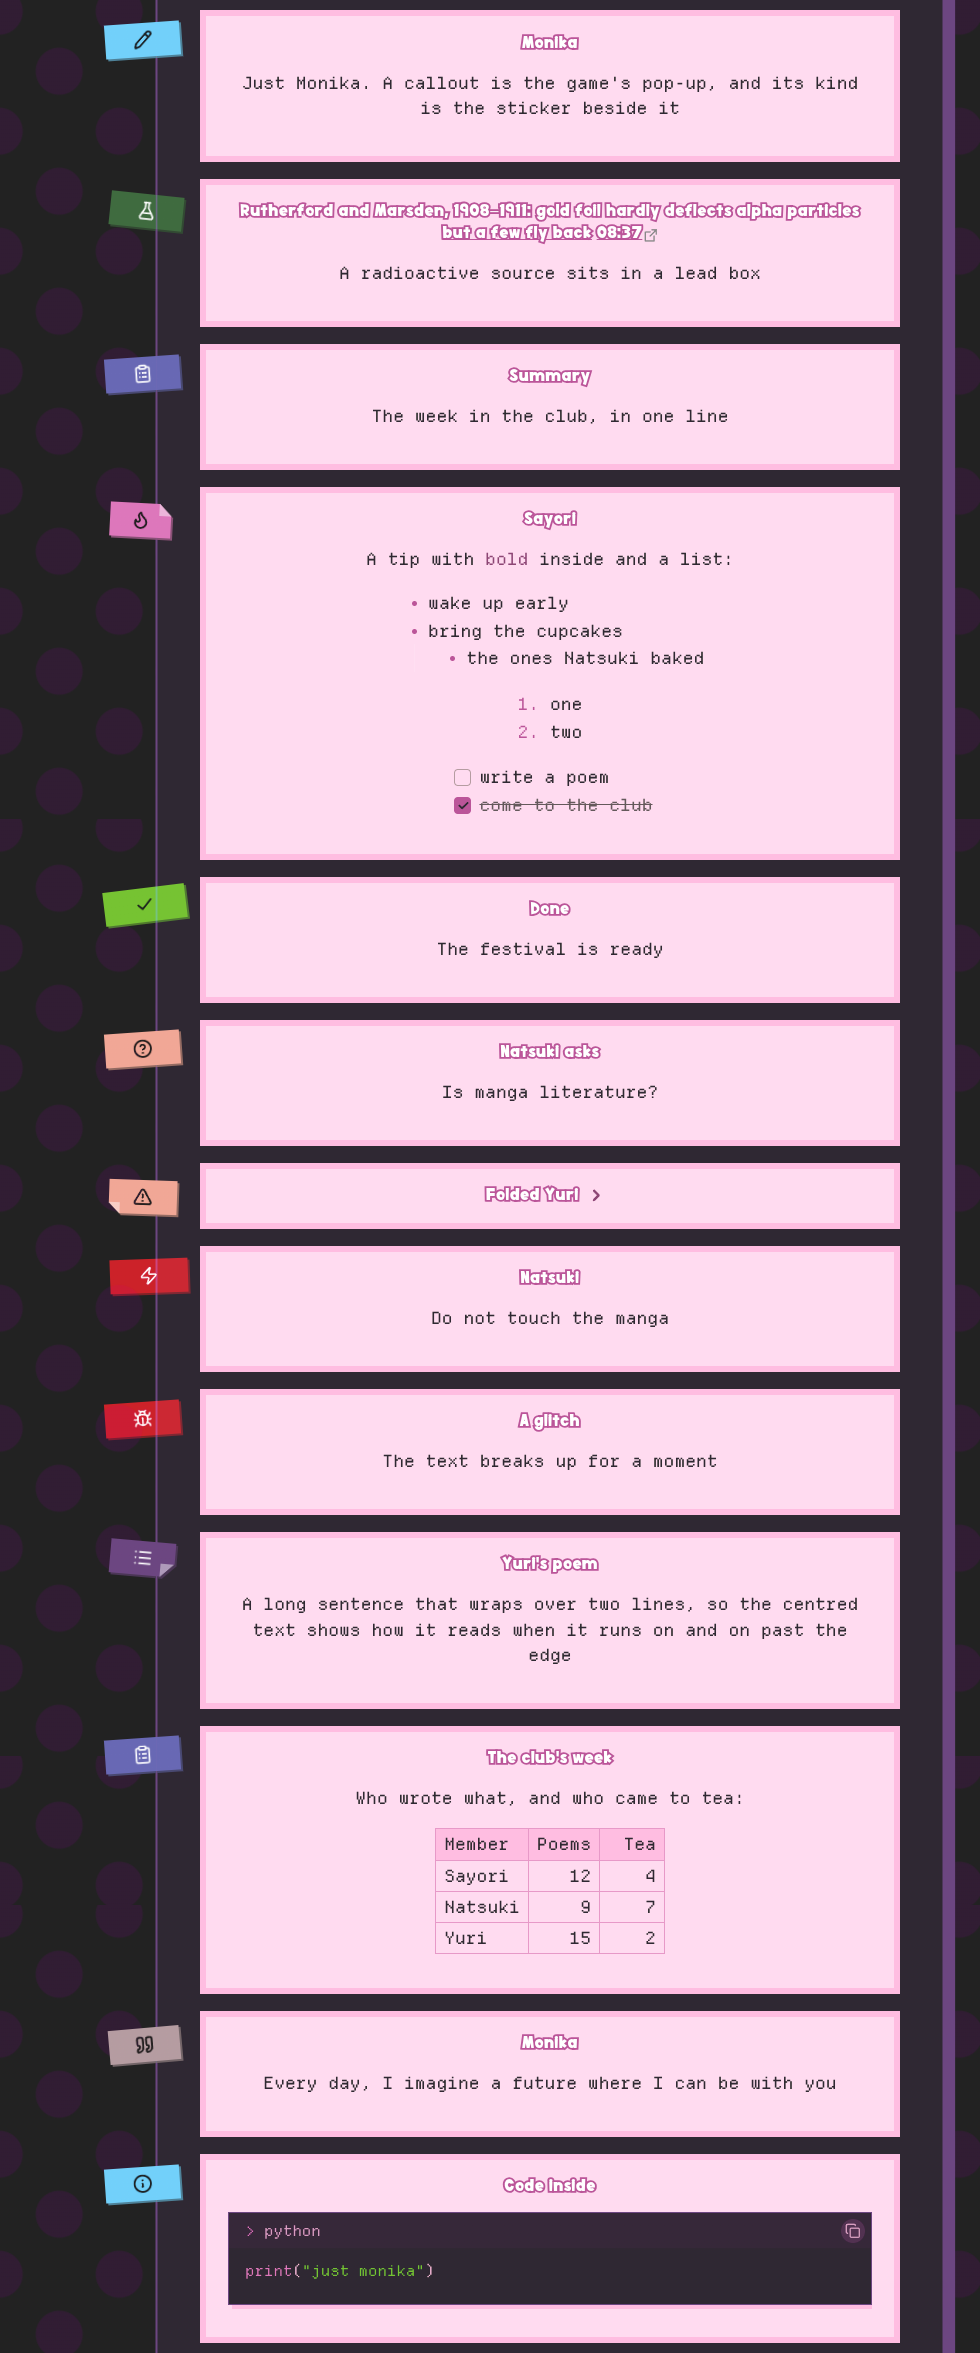
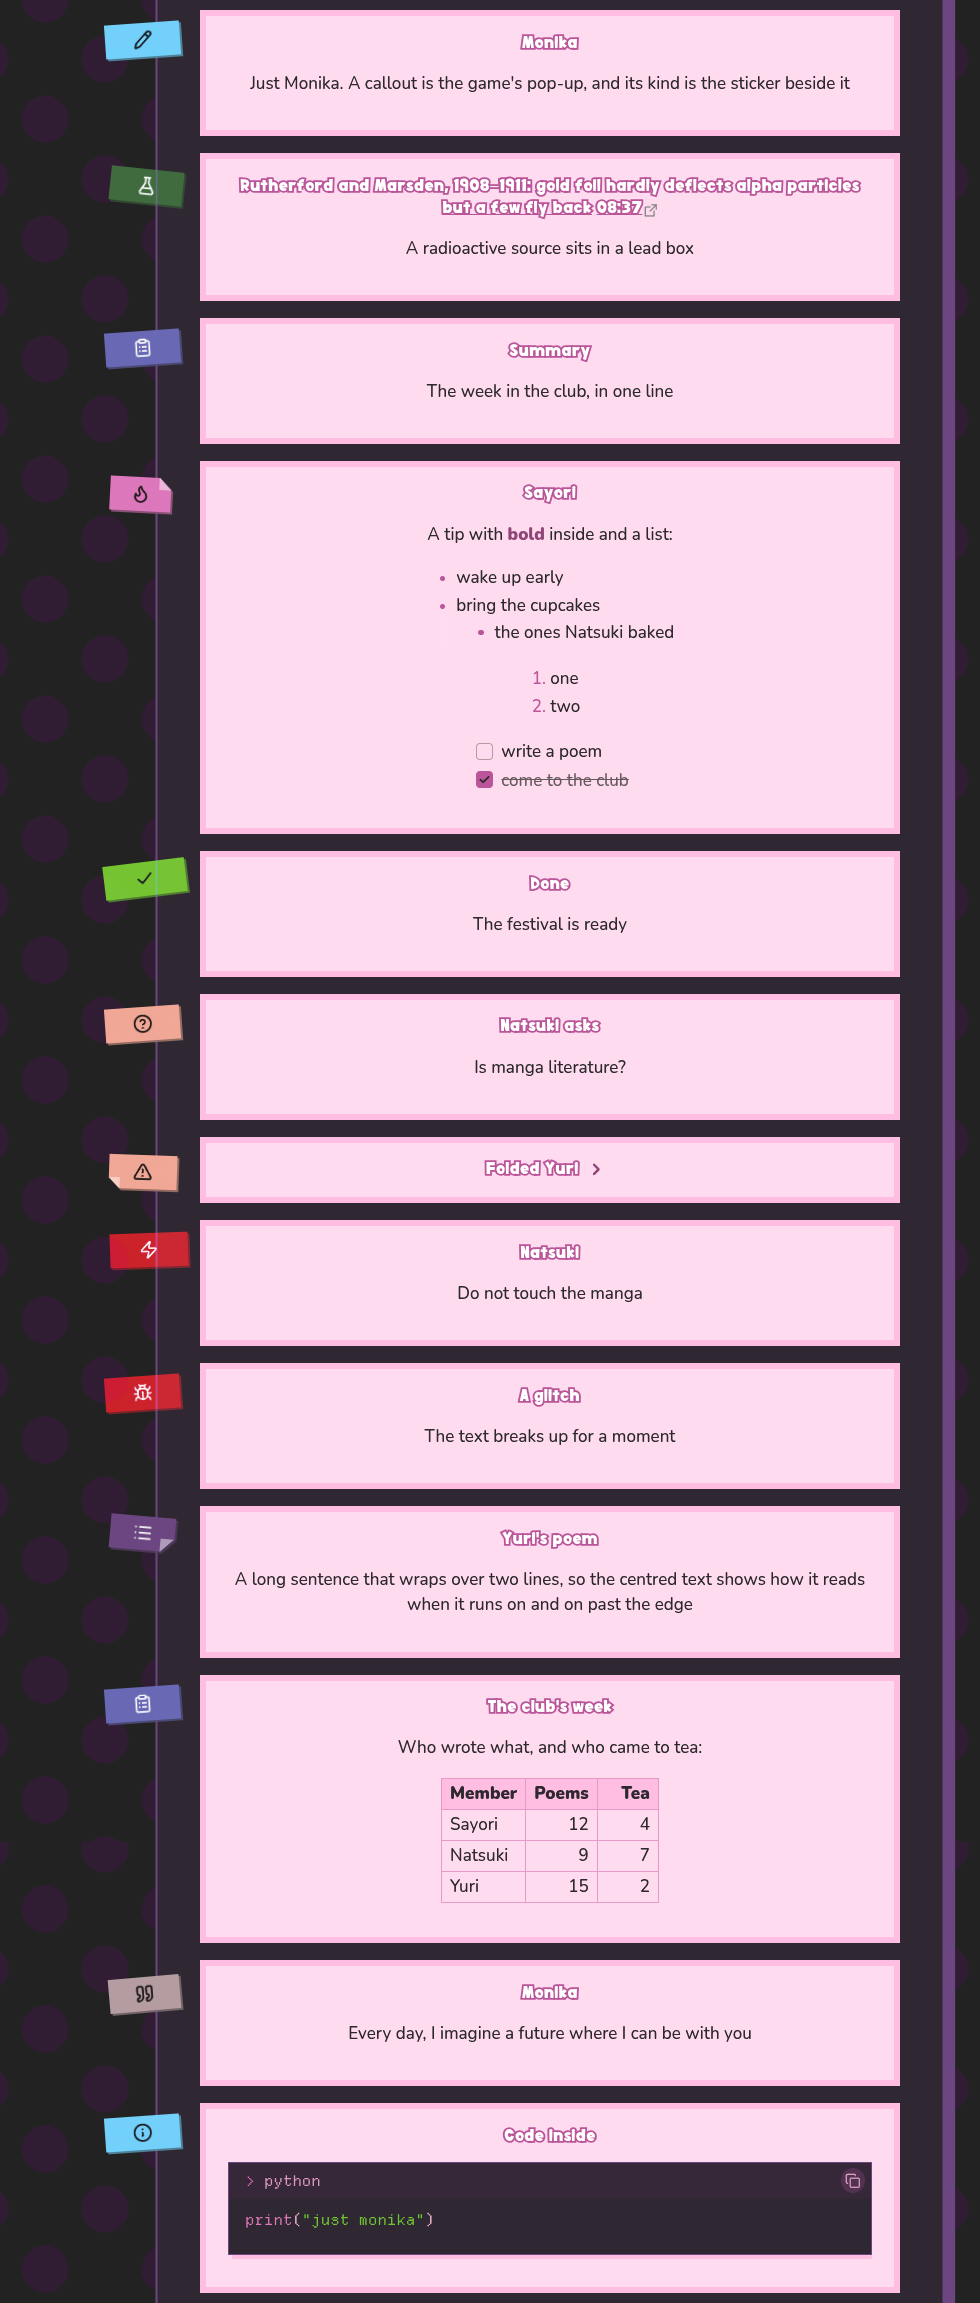
Retake the readme's shots with the theme's own fonts
Every shot with text shows Doki headings, Nunito prose and Departure Mono
code, as the theme now draws them. The callouts come in a light column
too, beside the dark one, and the cover is composed again from the new
light and dark shots.

Assisted-by: Claude Code:claude-opus-5-5 (mostly)

diff --git a/README.md b/README.md
@@ -39,7 +39,8 @@ The theme is called **DDLC** inside Obsidian. Its colours come from [ddlc-palett
 
 ## Callouts
 
-![every callout type as a pale pop-up, each with a sticker of its colour on the margin](docs/callouts.png)
+| ![every callout type as a pale pop-up on the dark sheet, each with a sticker of its colour on the margin](docs/callouts.png) | ![every callout type on the light sheet](docs/callouts-light.png) |
+| ------------------------------------------------------------------------------------------------------------------------------ | ------------------------------------------------------------------ |
 
 Every callout type has its own sticker colour, cut and tilt. The theme adds one type of its own, `experiment`, with a flask icon, for an experiment or a real case in a study note:
 
